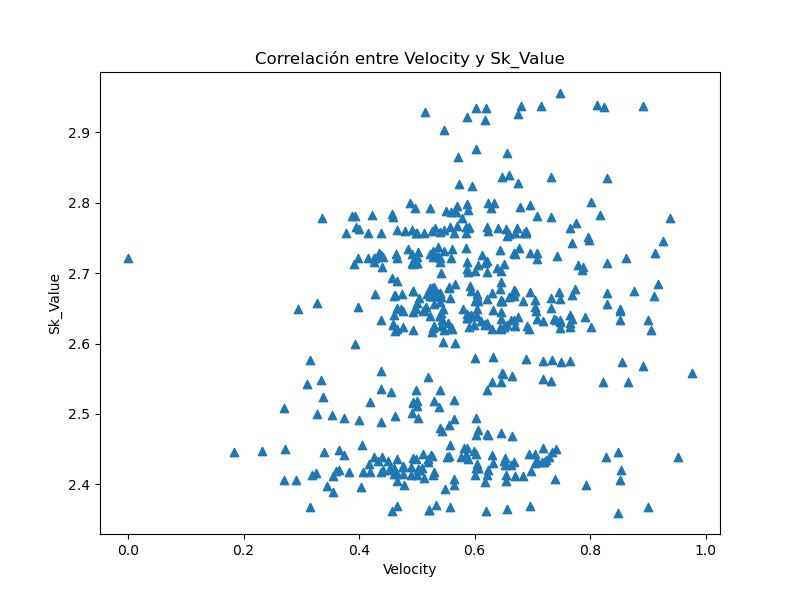
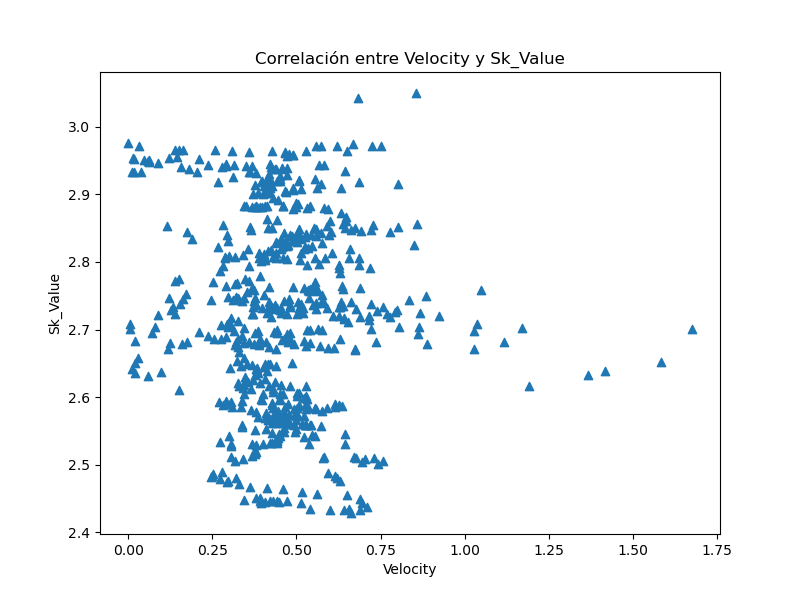
Streamlit App

diff --git a/src/velocity_module.py b/src/velocity_module.py
@@ -5,6 +5,8 @@ import pandas as pd
 import psutil
 import time
 import random
+import streamlit as st
+from PIL import Image
 from scipy.spatial import KDTree
 from scipy.optimize import curve_fit
 
@@ -141,7 +143,7 @@ def show_sk_vel_graph(df, id_person):
     ax.set_ylabel("Sk_Value")
     ax.set_title("Correlación entre Velocity y Sk_Value")
     plt.savefig("../images/"+"sk_vel_graph.png")
-    plt.show()
+    return fig
 
 
 def get_most_repited(df):
@@ -151,6 +153,9 @@ def get_most_repited(df):
     indice_valor_max = np.argmax(frecuency)
     return idss[indice_valor_max]
 
+def show_sk(id_person):
+    df = read_modified_file("UNI_CORR_500_05.txt")
+    return show_sk_vel_graph(df, id_person)
 
 def main():
     files = {
@@ -179,8 +184,66 @@ def main():
     df = read_modified_file(fileName5)
 
     id_person = get_most_repited(df)
-
-    show_sk_vel_graph(df, id_person)
-
+    grafica_sk = show_sk_vel_graph(df, id_person)
+    grafica_sk.show()
+    time.sleep(7)
 
 main()
+
+
+with st.container():
+    st.title('Análisis de Flujo Peatonal con Pandas y Matplotlib')
+    st.subheader('Esta aplicación es para observar el comportamiento de peatones en el pasillo de un metro')
+    left_column, right_column = st.columns(2)
+    with left_column:
+        st.markdown(f'<h4 style="text-align: left; font-size: 24px;"><a href="https://github.com/slderlv/PC-Laboratorio" target="_blank" style="text-decoration: none; color: inherit;"><u>Visita el repositorio en GitHub</u></a></h4>', unsafe_allow_html=True)
+    with right_column:
+        st.image('../images/github-mark-white.png', width=35)
+
+st.write("---")
+
+with st.container():
+    st.write("")
+    st.subheader("Comparación de velocidades")
+    st.write("")
+    st.write('''Se utilizaron dos archivos de texto que contienen datos relevantes sobre las personas detectadas en el pasillo del metro,
+    incluyendo su ID, el frame del video en el que aparecen y sus coordenadas (x, y, z) en un espacio tridimensional. Los datos procesados
+    permitieron la obtención de datos como la velocidad peatonal y el promedio de las distancias entre peatones dado un radio''')
+    st.write("")
+    st.image('../images/histogram_velocity_comparisson.png', caption='Fig 1. Histograma a partir de datos de archivo UNI_CORR_500_01 y UNI_CORR_500_05')
+    st.write("")
+    st.write('''A partir de los histogramas se puede observar patrones de velocidad distintos para los diferentes archivos seleccionados.
+    Para los datos del primer archivo se obtuvo que se mantiene una velocidad constante de alrededor de 1.5 metros por segundo a lo largo de
+    aproximadamente 2000 frames, mientras que en el segundo histograma de Velocidad vs Frame se aprecia una variación en la velocidad,
+    comenzando en 1.5 metros por segundo y luego disminuyendo hasta aproximadamente el frame 1000, para luego estabilizarse a alrededor
+    de 0.7 metros por segundo hasta el final del registro.''')
+    st.write('''
+            Los resultados obtenidos con el primer archivo podrían indicar que las personas de esa muestra mantuvieron una velocidad constante 
+            mientras se movían por el pasillo del tren subterráneo. En tanto las variaciones de velocidad de la segunda muestra sugieren 
+            posibles cambios en la densidad de personas o en las condiciones del entorno a lo largo del tiempo.''')
+    st.write("")
+
+with st.container():
+    st.write("")
+    st.write('''Para la comparación de velocidades entre diferentes peatones se creó un boxplot utilizando los datos del archivo UNI_CORR_500_01
+    ''')
+    st.write("")
+    st.image('../images/velocity_boxplot.png', caption='Fig 2. Diagrama de caja y bigote a partir de datos de archivo UNI_CORR_500_01')
+    st.write("")
+    st.write('''En cuanto a los diagramas de caja generados, se observa que en el archivo UNI_CORR_500_01, la mediana de velocidad para
+    cada persona se encuentra generalmente en el rango de 1,5 +- 0,3 m/s Esto sugiere que la mayoría de las personas mantuvieron velocidades
+    en ese intervalo a lo largo del tiempo observado.''')
+    st.write("")
+
+with st.container():
+    st.write("")
+    st.subheader("Constante de ecuación de Weidmann vs Velocidad")
+    st.write('''En el estudio de peatones se calculó la constante de la ecuación de Weidmann (Sk) para obtener la velocidad de cada peatón
+    en el archivo UNI_CORR_500_05 en función de los transeúntes dentro de un radio''')
+    st.write("")
+    div = st.slider('ID peatón:', 1, 905, 710)
+    st.pyplot(show_sk(div))
+    st.write("")
+    st.write('''Con el Scatter se puede concluir que a mayor cantidad de transeúntes cercanos al analizado, menor es la velocidad predicha, y
+    a menor cantidad de vecinos transeúntes en el radio, mayor es la velocidad predicha, proporcionando así, el Sk, información adicional sobre cómo se
+    distribuyen las velocidades y las distancias entre los peatones en el espacio público''')
